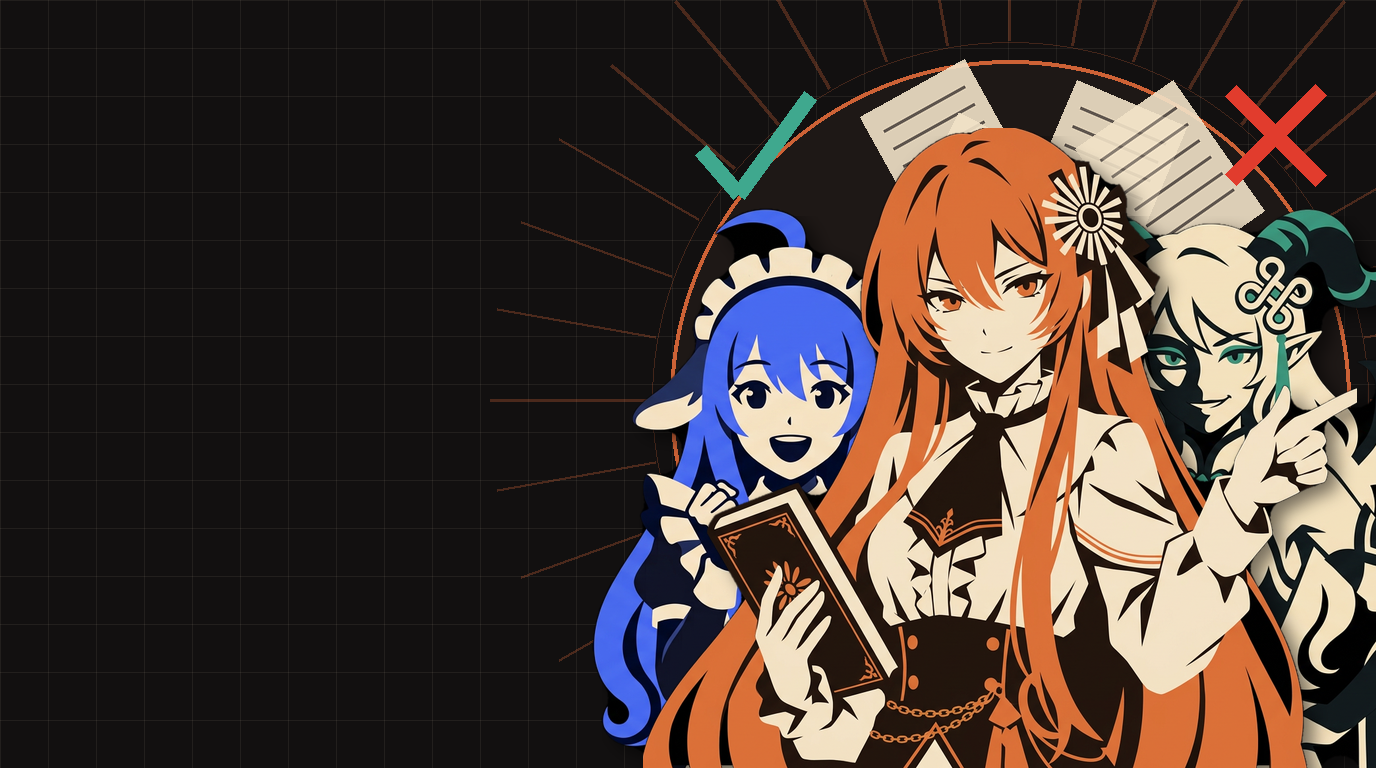
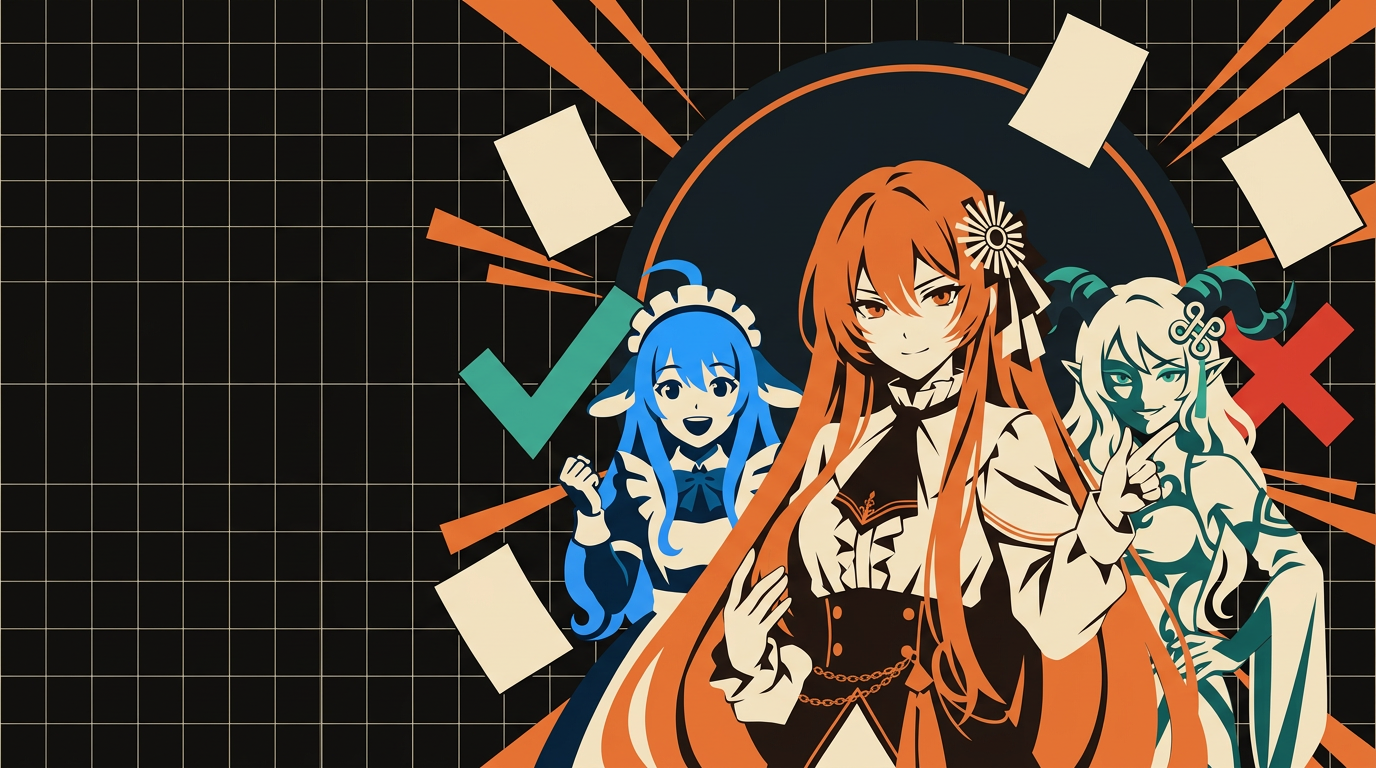
封面改为 4:3 + 16:9（删除 16:10），sp6/sp7 正式美术；特别篇6 新增原题裁切

diff --git a/covers/make_covers.py b/covers/make_covers.py
@@ -1,6 +1,6 @@
 # -*- coding: utf-8 -*-
 """B 站封面合成：art/<id>.png（Arena 生图，无文字）+ 代码叠加中文标题。
-输出 out/<id>_16x9.jpg（1920x1080）与 out/<id>_16x10.jpg（1920x1200，B 站推荐比例）。
+输出 out/<id>_16x9.jpg（1920x1080）与 out/<id>_4x3.jpg（1440x1080），对应 B 站投稿的两种封面比例。
 用法：python3 make_covers.py [id ...]
 """
 import sys, os
@@ -23,7 +23,7 @@ C = {
  'sp4': dict(tag='特别篇 4/7 · 期中真题精讲', num='4', title=['子空间', '与相关性'], sub='判定、证明、反例，一套带走', chips=['三道闸门', '朗斯基', '证明模板'], acc='ds'),
  'sp5': dict(tag='特别篇 5/7 · 期中真题精讲', num='5', title=['过渡矩阵'], sub='Leon 与同济的“约定之战”', chips=['两副眼镜', '坐标', '自检'], acc='claude'),
  'sp6': dict(tag='特别篇 6/7 · 期中真题精讲', num='6', title=['RREF', '反推'], sub='压轴题 + 一道原题有 bug', chips=['24 分压轴', '丝线读心术', '四个子空间'], acc='gpt', stamp='压轴'),
- 'sp7': dict(tag='特别篇 7/7 · 期中真题精讲', num='7', title=['判断题', '闪电战'], sub='整卷导航 · 120 分钟怎么分', chips=['反例速查', '整卷地图', '附加题'], acc='claude'),
+ 'sp7': dict(tag='特别篇 7/7 · 期中真题精讲', num='7', title=['判断题', '闪电战'], sub='整卷导航 · 120 分钟怎么分', chips=['反例速查', '整卷地图', '附加题'], acc='claude', x43=0.36),
 }
 
 
@@ -36,19 +36,27 @@ def compose(cid, W, H):
     art = Image.open(f'art/{cid}.png').convert('RGB')
     sc = max(W / art.width, H / art.height)
     art = art.resize((round(art.width * sc), round(art.height * sc)), Image.LANCZOS)
-    x0 = art.width - W  # crop from the left: the character lives on the right
+    if W / H > 1.6:
+        x0 = art.width - W  # 16:9: crop from the left, the character lives on the right
+    else:
+        # 4:3: keep the character (≈73% of art width) at ≈68% of the frame
+        x0 = art.width * 0.73 - W * 0.68
+        if cfg.get('x43') is not None:  # per-cover anchor: art fraction placed at 40% of frame
+            x0 = art.width * cfg['x43'] - W * 0.40
+        x0 = int(min(art.width - W, max(0, x0)))
     y0 = (art.height - H) // 2
     img = art.crop((x0, y0, x0 + W, y0 + H)).convert('RGBA')
     # left gradient for readability
     grad = Image.new('L', (W, 1))
     for x in range(W):
-        t = x / (W * 0.62)
+        t = x / (W * (0.62 if W / H > 1.6 else 0.66))
         grad.putpixel((x, 0), int(255 * max(0, min(1, 1 - t)) ** 1.4 * 0.93))
     grad = grad.resize((W, H))
     img = Image.composite(Image.new('RGBA', (W, H), PAPER + (255,)), img, grad)
     d = ImageDraw.Draw(img)
-    X = 110
-    top = 120 if H == 1080 else 150
+    narrow = W / H < 1.6
+    X = 90 if narrow else 110
+    top = 120
     acc = ACC[cfg['acc']]
     # faint outline numeral
     big = font(SERIF, 640)
@@ -63,6 +71,8 @@ def compose(cid, W, H):
     y = top + 110
     n = max(len(s) for s in cfg['title'])
     size = 220 if n <= 3 else (190 if n <= 4 else 160)
+    if narrow:
+        size = min(size, int(W * 0.5 / n))
     fT = font(SERIF, size)
     for line in cfg['title']:
         # dark halo for legibility, then heavy cream text (stroke thickens Bold → Black)
@@ -77,13 +87,15 @@ def compose(cid, W, H):
     d.rectangle((X, y + 18, X + 140, y + 30), fill=PERI)
     fs = font(SANS, 62)
     sw = d.textlength(cfg['sub'], font=fs)
+    while sw > W * 0.6:
+        fs = font(SANS, fs.size - 2); sw = d.textlength(cfg['sub'], font=fs)
     plate = Image.new('RGBA', (W, H)); pd = ImageDraw.Draw(plate)
     pd.rounded_rectangle((X - 22, y + 46, X + sw + 26, y + 46 + 92), radius=14, fill=PAPER + (225,))
     img = Image.alpha_composite(img, plate); d = ImageDraw.Draw(img)
     d.text((X, y + 52), cfg['sub'], font=fs, fill=PERI, stroke_width=1, stroke_fill=PERI)
     # chips
     fc = font(SANS, 40)
-    cy = H - (150 if H == 1080 else 175)
+    cy = H - 150
     cx = X
     for ch in cfg['chips']:
         tw = d.textlength(ch, font=fc)
@@ -96,8 +108,12 @@ def compose(cid, W, H):
         sd.rounded_rectangle((10, 10, 410, 210), radius=22, outline=FREE, width=12)
         sd.text((210, 112), cfg['stamp'], font=font(SANS, 130), fill=FREE, anchor='mm')
         st = st.rotate(14, expand=True, resample=Image.BICUBIC)
-        sx = X + int(d.textlength(cfg['title'][0], font=fT)) + 40
-        img.alpha_composite(st, (min(sx, 900), top + 70))
+        if narrow:  # 4:3: small stamp in the lower-right, clear of faces
+            st = st.resize((int(st.width * 0.62), int(st.height * 0.62)), Image.LANCZOS)
+            img.alpha_composite(st, (W - st.width - 50, H - st.height - 60))
+        else:
+            sx = X + int(d.textlength(cfg['title'][0], font=fT)) + 40
+            img.alpha_composite(st, (min(sx, W - st.width - 60), top + 70))
     # thin frame
     d = ImageDraw.Draw(img)
     d.rectangle((24, 24, W - 25, H - 25), outline=PERI + (120,), width=2)
@@ -108,6 +124,6 @@ if __name__ == '__main__':
     os.makedirs('out', exist_ok=True)
     ids = sys.argv[1:] or [k for k in C if os.path.exists(f'art/{k}.png')]
     for cid in ids:
-        for (W, H, tag) in [(1920, 1080, '16x9'), (1920, 1200, '16x10')]:
+        for (W, H, tag) in [(1920, 1080, '16x9'), (1440, 1080, '4x3')]:
             compose(cid, W, H).save(f'out/{cid}_{tag}.jpg', quality=92)
         print('ok', cid)

diff --git a/docs/B站发布文案_标题简介标签.md b/docs/B站发布文案_标题简介标签.md
@@ -1,8 +1,8 @@
 # AI娘线性代数课 · B 站发布文案（标题 / 简介 / 标签 / 封面）
 
 > 2026-11-16 · 适用：第 1–4 集正片、特别篇速成版、特别篇 1–7
-> B 站限制：标题 ≤ 80 字；标签每个 ≤ 20 字，最多 10 个；封面推荐 1920×1200（16:10），也可以用 1920×1080。
-> 封面文件：`covers/out/<id>_16x10.jpg`（上传用）和 `<id>_16x9.jpg`（备用）。底图由 Arena 生图生成，无文字，在 `covers/art/`；文字由 `covers/make_covers.py` 叠加。
+> B 站限制：标题 ≤ 80 字；标签每个 ≤ 20 字，最多 10 个；投稿需要两张封面：4:3（1440×1080，用于首页/动态的竖向卡片）和 16:9（1920×1080，用于播放页与横向卡片）。
+> 封面文件：`covers/out/<id>_4x3.jpg` 与 `covers/out/<id>_16x9.jpg`，上传时分别填入两个比例。底图由 Arena 生图生成，无文字，在 `covers/art/`；文字由 `covers/make_covers.py` 叠加。
 
 ---
 
@@ -24,7 +24,7 @@
 
 ## 第 1 集 · 方程组与矩阵
 
-- **封面**：`covers/out/ep01_16x10.jpg`（Claude，三平面交于一点）
+- **封面**：`covers/out/ep01_4x3.jpg` / `_16x9.jpg`（Claude，三平面交于一点）
 - **标题 A**：【AI娘线代】第1集 方程组与矩阵｜消元、矩阵乘法、求逆、LU 一次讲透
 - **标题 B**：矩阵乘法为什么要“行乘列”？三张平面告诉你｜AI娘线代 第1集
 - **简介**：
@@ -50,7 +50,7 @@
 
 ## 第 2 集 · 行列式
 
-- **封面**：`covers/out/ep02_16x10.jpg`（DeepSeek，立方体被拉伸）
+- **封面**：`covers/out/ep02_4x3.jpg` / `_16x9.jpg`（DeepSeek，立方体被拉伸）
 - **标题 A**：【AI娘线代】第2集 行列式｜面积、体积，和“会不会塌”
 - **标题 B**：行列式不是一堆乘法，是“空间被放大了几倍”｜AI娘线代 第2集
 - **简介**：
@@ -71,7 +71,7 @@
 
 ## 第 3 集 · 向量空间
 
-- **封面**：`covers/out/ep03_16x10.jpg`（GPT，两平面交线 + 基向量）
+- **封面**：`covers/out/ep03_4x3.jpg` / `_16x9.jpg`（GPT，两平面交线 + 基向量）
 - **标题 A**：【AI娘线代】第3集 向量空间｜子空间、线性无关、基与维数、秩
 - **标题 B**：把“向量”从箭头里解放出来：函数也是向量？｜AI娘线代 第3集
 - **简介**：
@@ -90,7 +90,7 @@
 
 ## 第 4 集 · 线性变换
 
-- **封面**：`covers/out/ep04_16x10.jpg`（Claude 挥手，网格被剪切旋转）
+- **封面**：`covers/out/ep04_4x3.jpg` / `_16x9.jpg`（Claude 挥手，网格被剪切旋转）
 - **标题 A**：【AI娘线代】第4集 线性变换｜矩阵，就是空间的动作
 - **标题 B**：看懂这一集，你再也不会“背”矩阵了｜AI娘线代 第4集 线性变换
 - **简介**：
@@ -110,7 +110,7 @@
 
 ## 特别篇 · 期中速成版（75 分钟）
 
-- **封面**：`covers/out/spx_16x10.jpg`（三人合影 + 秒表 + “救急”印章）
+- **封面**：`covers/out/spx_4x3.jpg` / `_16x9.jpg`（三人合影 + 秒表 + “救急”印章）
 - **标题 A**：【AI娘线代】期中速成版｜75 分钟刷完 9 份真题的 8 类题型（第1–3章）
 - **标题 B**：线代期中前一晚看这个就够了！75 分钟 8 类必考题型｜AI娘线代 特别篇
 - **简介**：
